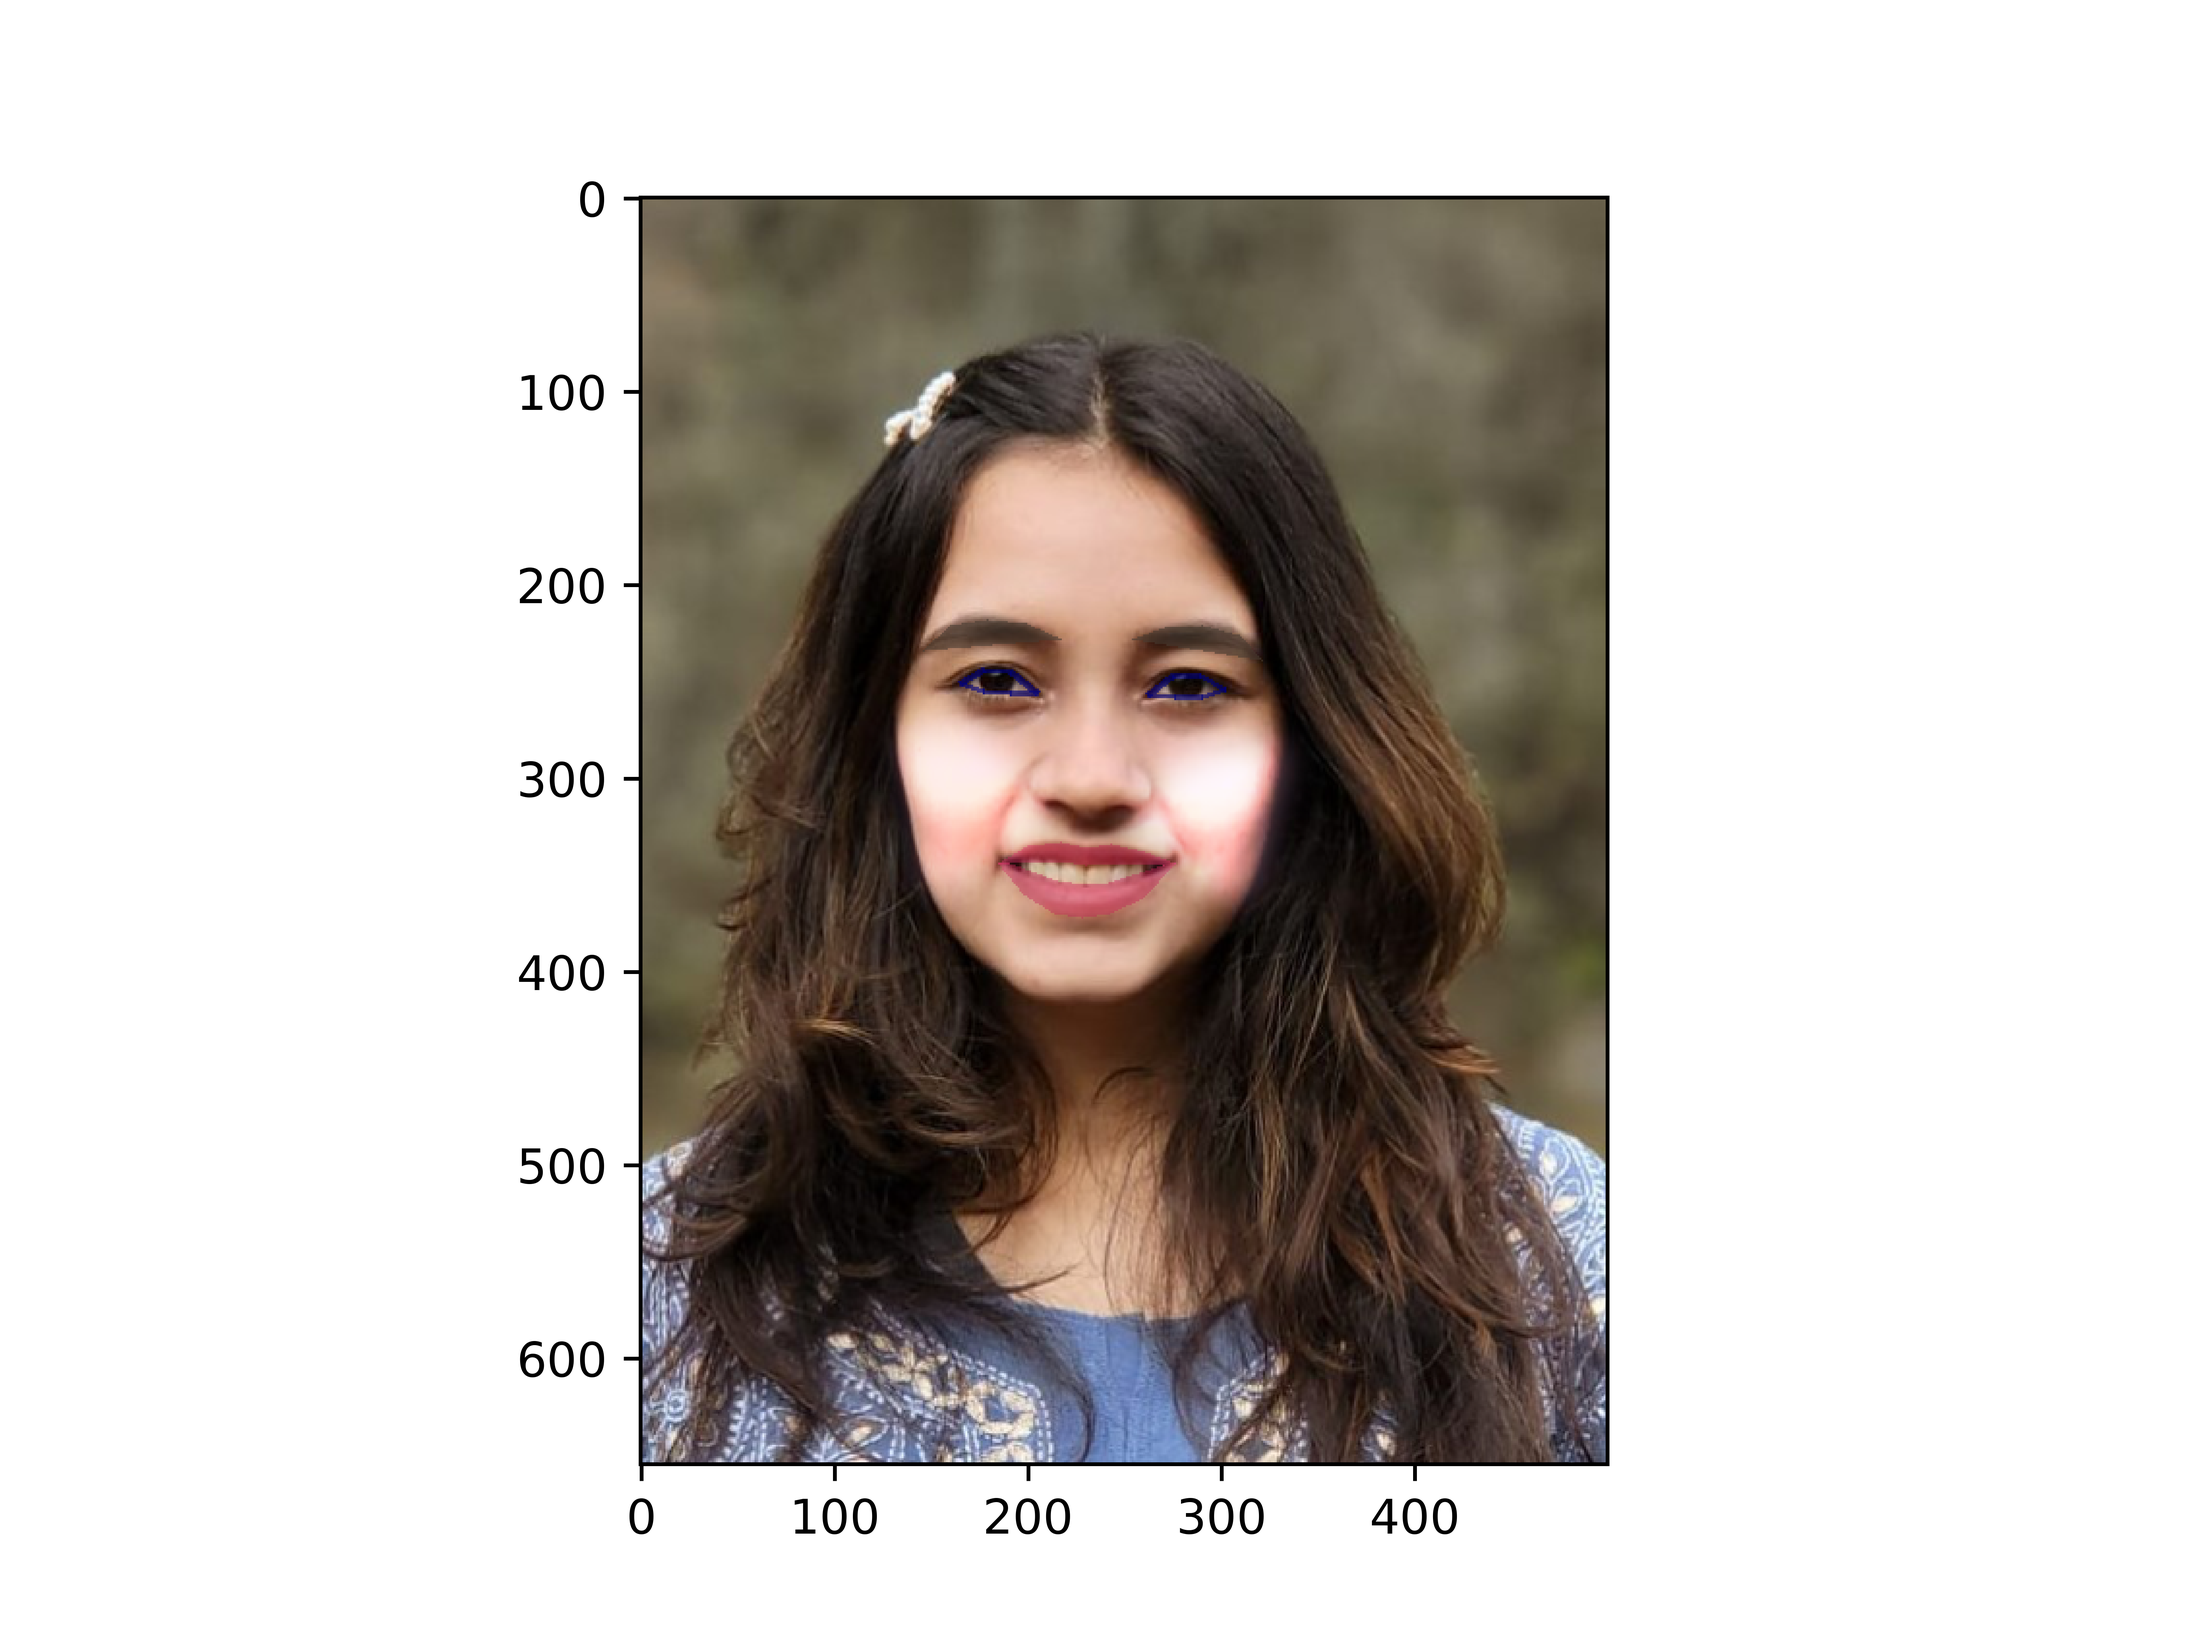
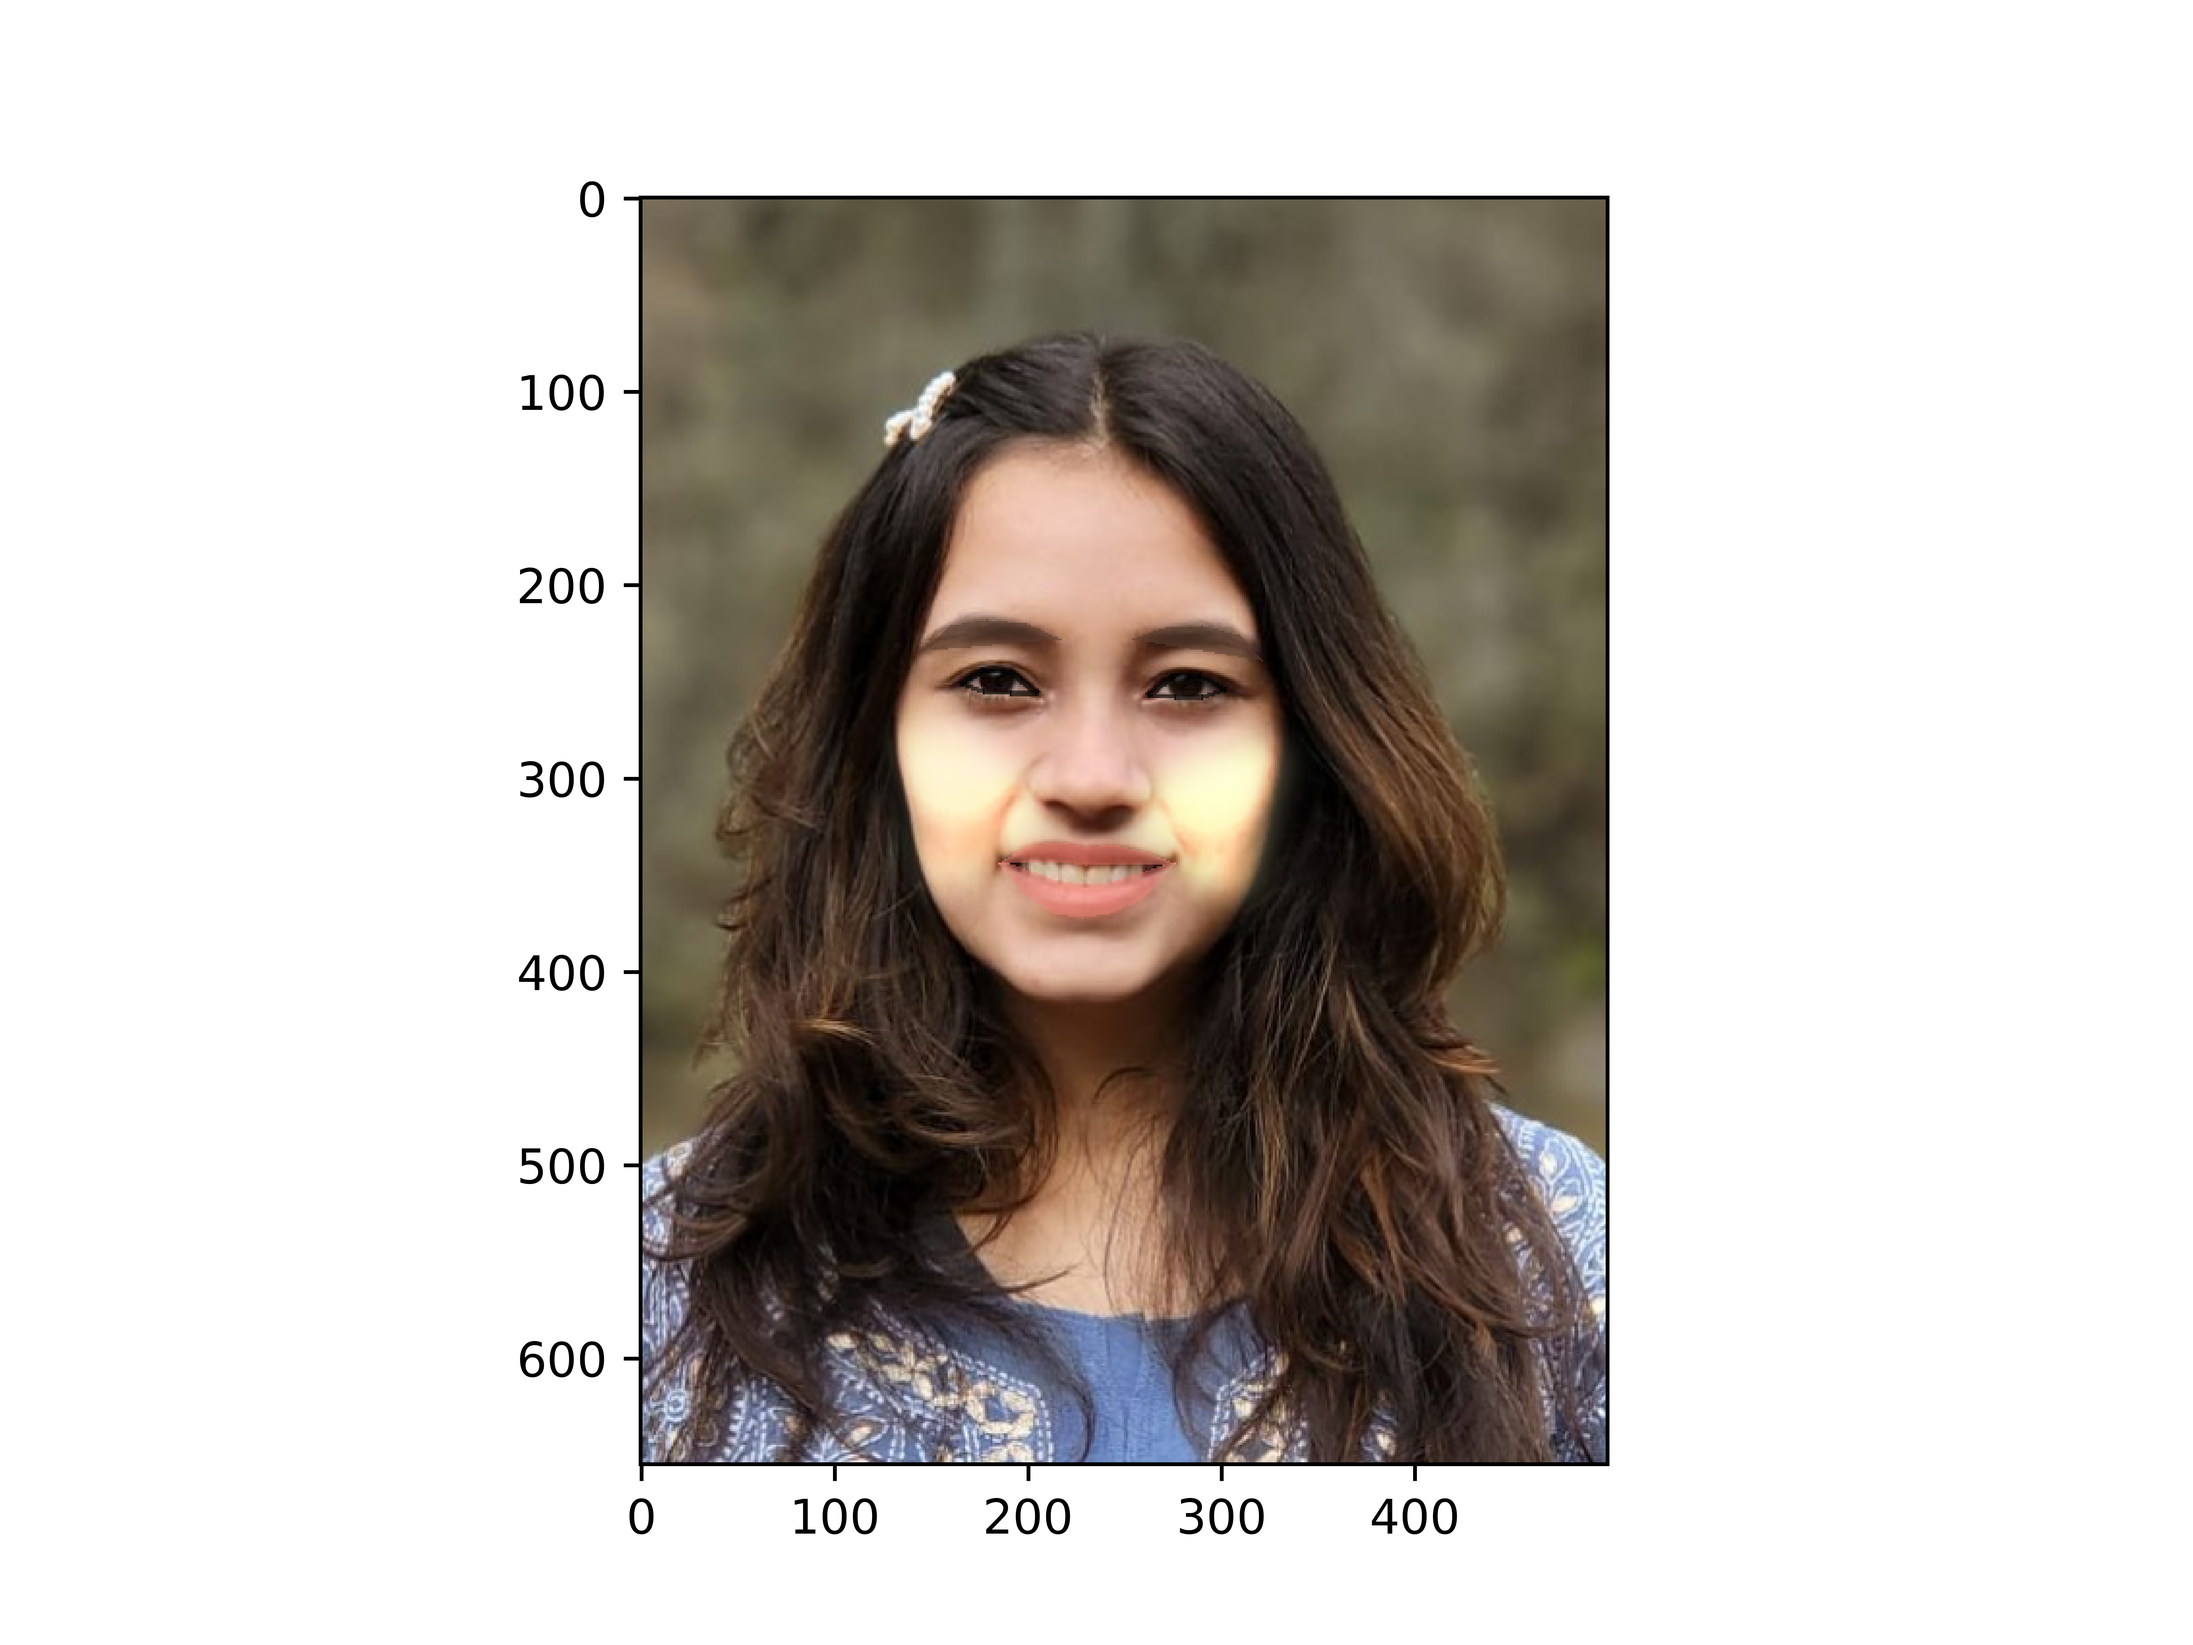
added options for lipstick and blush colour

Changed region(s): [[0.4375, 0.4062, 0.5938, 0.5625], [0.4375, 0.4062, 0.4688, 0.4375]]

diff --git a/main_withpicker.py b/main_withpicker.py
@@ -17,6 +17,34 @@ import streamlit as st
 global pil_image
 global imOrg
 
+blush_colour_values = {
+    "Pink" : [194, 29, 209],
+    "Plum" : [142, 69, 209],
+    "Coral" : [255, 127, 80],
+    "Light Pink": [228, 117, 230],
+    "Minimal" : [255, 229, 180],
+    "Formal": [255, 182, 193],
+    "Party": [255, 192, 203],
+    "Goth": [103, 49, 71]
+}
+
+lipstick_colour_values = {
+    "Dark Pink": [204, 16, 176],
+    "Peach": [245, 141, 66],
+    "Light Pink": [228, 117, 230],
+    "Burgundy": [128, 0, 32],
+    "Minimal" : [248, 131, 121],
+    "Formal": [204, 85, 0],
+    "Party": [194, 30, 86],
+    "Goth" : [0, 0, 0]
+}
+
+eyebrow_color_values = {
+    "Minimal" : [92, 64, 51],
+    "Formal" : [92, 64, 51],
+    "Party" : [72, 60, 50]
+}
+
 #function to pick style and access rgb values
 def style_picker(n):
     loc = ('./StyleColour.xlsx')
@@ -27,7 +55,7 @@ def style_picker(n):
         rgbvals.append(int(sheet.cell_value(n, i)))
     return rgbvals
 
-def run_script(image, makeup_number_choice):
+def run_script(image, makeup_choice, lipstick_colour, blush_colour):
     global pil_image
     global imOrg
     
@@ -67,6 +95,14 @@ def run_script(image, makeup_number_choice):
 
     #Taking input on type of colour
     #m=int(input())
+    makeup_number_map = {
+        "Minimal" : 1,
+        "Formal" : 2,
+        "Party" : 3,
+        "Goth": 4 
+    }
+
+    makeup_number_choice = makeup_number_map[makeup_choice]
     m = makeup_number_choice
 
     rvals=style_picker(m)
@@ -91,8 +127,15 @@ def run_script(image, makeup_number_choice):
     right_eyebrow=[shape[i] for i in indices]
 
     # Draw lipstick, eyeliner and eyebrow pencil on image
-    d.polygon(top_lip, fill=(rvals[0],rvals[1],rvals[2],100))
-    d.polygon(bottom_lip, fill=(rvals[0],rvals[1],rvals[2],100))
+    if(lipstick_colour):
+        colour_values = lipstick_colour_values[lipstick_colour]
+        d.polygon(top_lip, fill=(colour_values[0],colour_values[1],colour_values[2],100))
+        d.polygon(bottom_lip, fill=(colour_values[0],colour_values[1],colour_values[2],100))
+    else:
+        colour_values = lipstick_colour_values[makeup_choice]
+        d.polygon(top_lip, fill=(colour_values[0],colour_values[1],colour_values[2],100))
+        d.polygon(bottom_lip, fill=(colour_values[0],colour_values[1],colour_values[2],100))
+    
     d.line(left_eye, fill=(rvals[3],rvals[4],rvals[5], 150), width=3)
     d.line(right_eye, fill=(rvals[3],rvals[4],rvals[5], 150), width=3)
     d.polygon(left_eyebrow, fill=(rvals[6],rvals[7],rvals[8], 150))
@@ -102,7 +145,9 @@ def run_script(image, makeup_number_choice):
     plt.imshow(pil_image)
 
     #blush colour
-    Rg, Gg, Bg = (rvals[9],rvals[10],rvals[11])
+    Rg, Gg, Bg = blush_colour_values[makeup_choice]
+    if(blush_colour):
+        Rg, Gg, Bg = blush_colour_values[blush_colour]
 
     #load image with initial makeup
     pil_image = np.asarray(pil_image)
@@ -209,18 +254,27 @@ if(image):
     st.image(image)
 makeup_choice = st.radio("Choose makeup style", ["Minimal","Formal","Party","Goth"])
 
-makeup_number_map = {
-    "Minimal" : 1,
-    "Formal" : 2,
-    "Party" : 3,
-    "Goth": 4 
-}
+# makeup_number_map = {
+#     "Minimal" : 1,
+#     "Formal" : 2,
+#     "Party" : 3,
+#     "Goth": 4 
+# }
 
-makeup_number_choice = makeup_number_map[makeup_choice]
+# makeup_number_choice = makeup_number_map[makeup_choice]
+
+lipstick_colour = st.radio("Choose lipstick colour (optional)", ["According to style", "Dark Pink", "Peach", "Light Pink", "Burgundy"])
+blush_colour = st.radio("Choose blush colour (optional)", ["According to style", "Pink", "Plum", "Coral", "Light Pink"])
+
+if(lipstick_colour == "According to style"):
+    lipstick_colour = None
+
+if(blush_colour == "According to style"):
+    blush_colour = None
 
 clicked = st.button("Run")
 if(clicked):
-    run_script(image, makeup_number_choice)
+    run_script(image, makeup_choice, lipstick_colour, blush_colour)
     st.image("./applied_result.png")
 
 
